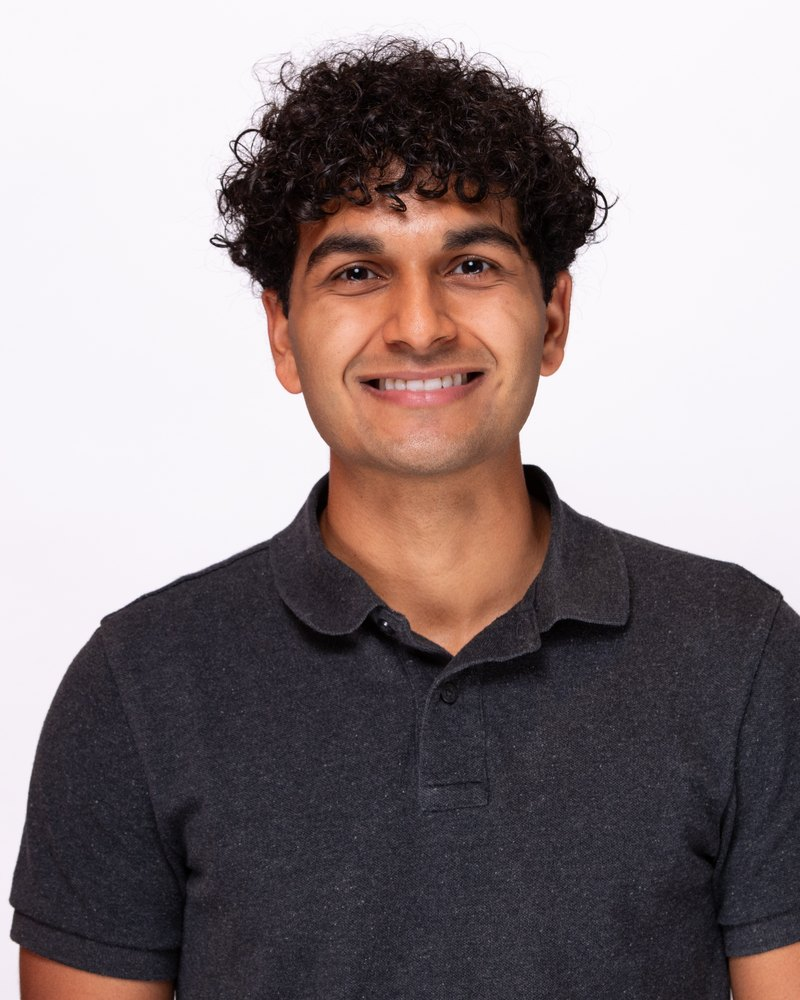
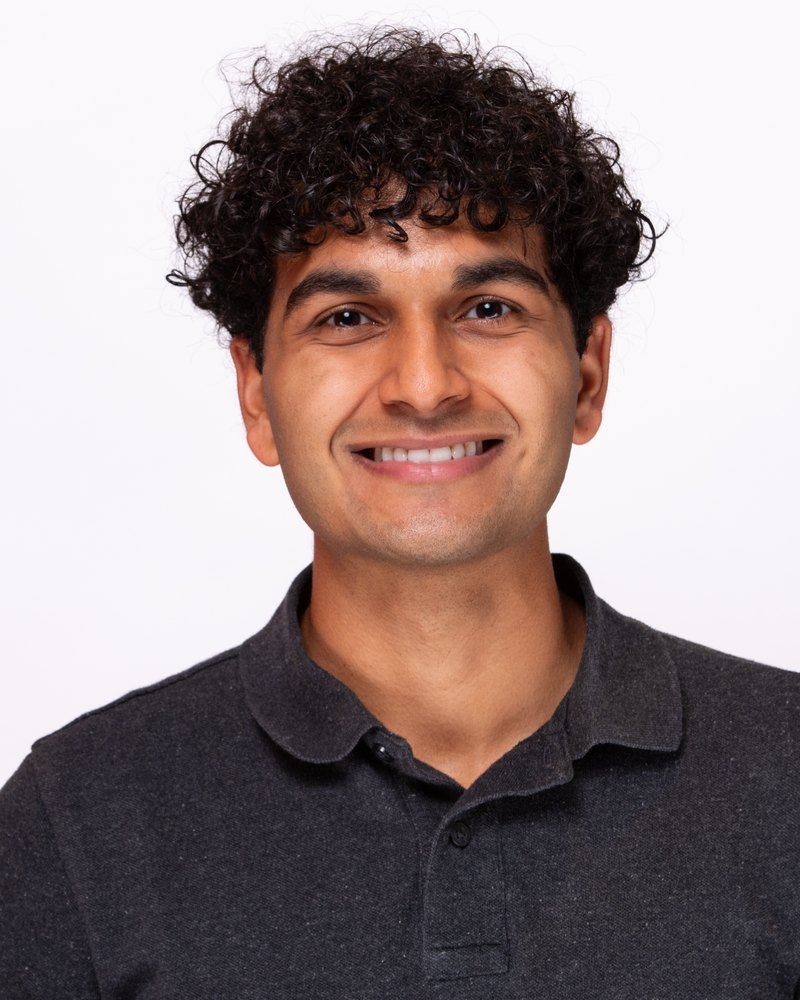
Tighten portrait crop and round image corners

diff --git a/index.html b/index.html
@@ -160,7 +160,7 @@
   .fact-value{margin-top:6px;font-family:'Fraunces', serif;font-size:18px;font-weight:500;}
 
   /* ---------- PHOTOS ---------- */
-  .photo-frame{border:1px solid var(--line);border-radius:var(--radius);overflow:hidden;background:var(--panel);}
+  .photo-frame{border:1px solid var(--line);border-radius:10px;overflow:hidden;background:var(--panel);}
   .photo-frame img{display:block;width:100%;height:auto;filter:saturate(1.02) contrast(1.01);}
   .photo-cap{
     font-family:'IBM Plex Mono', monospace;font-size:10.5px;letter-spacing:.05em;color:var(--muted);
